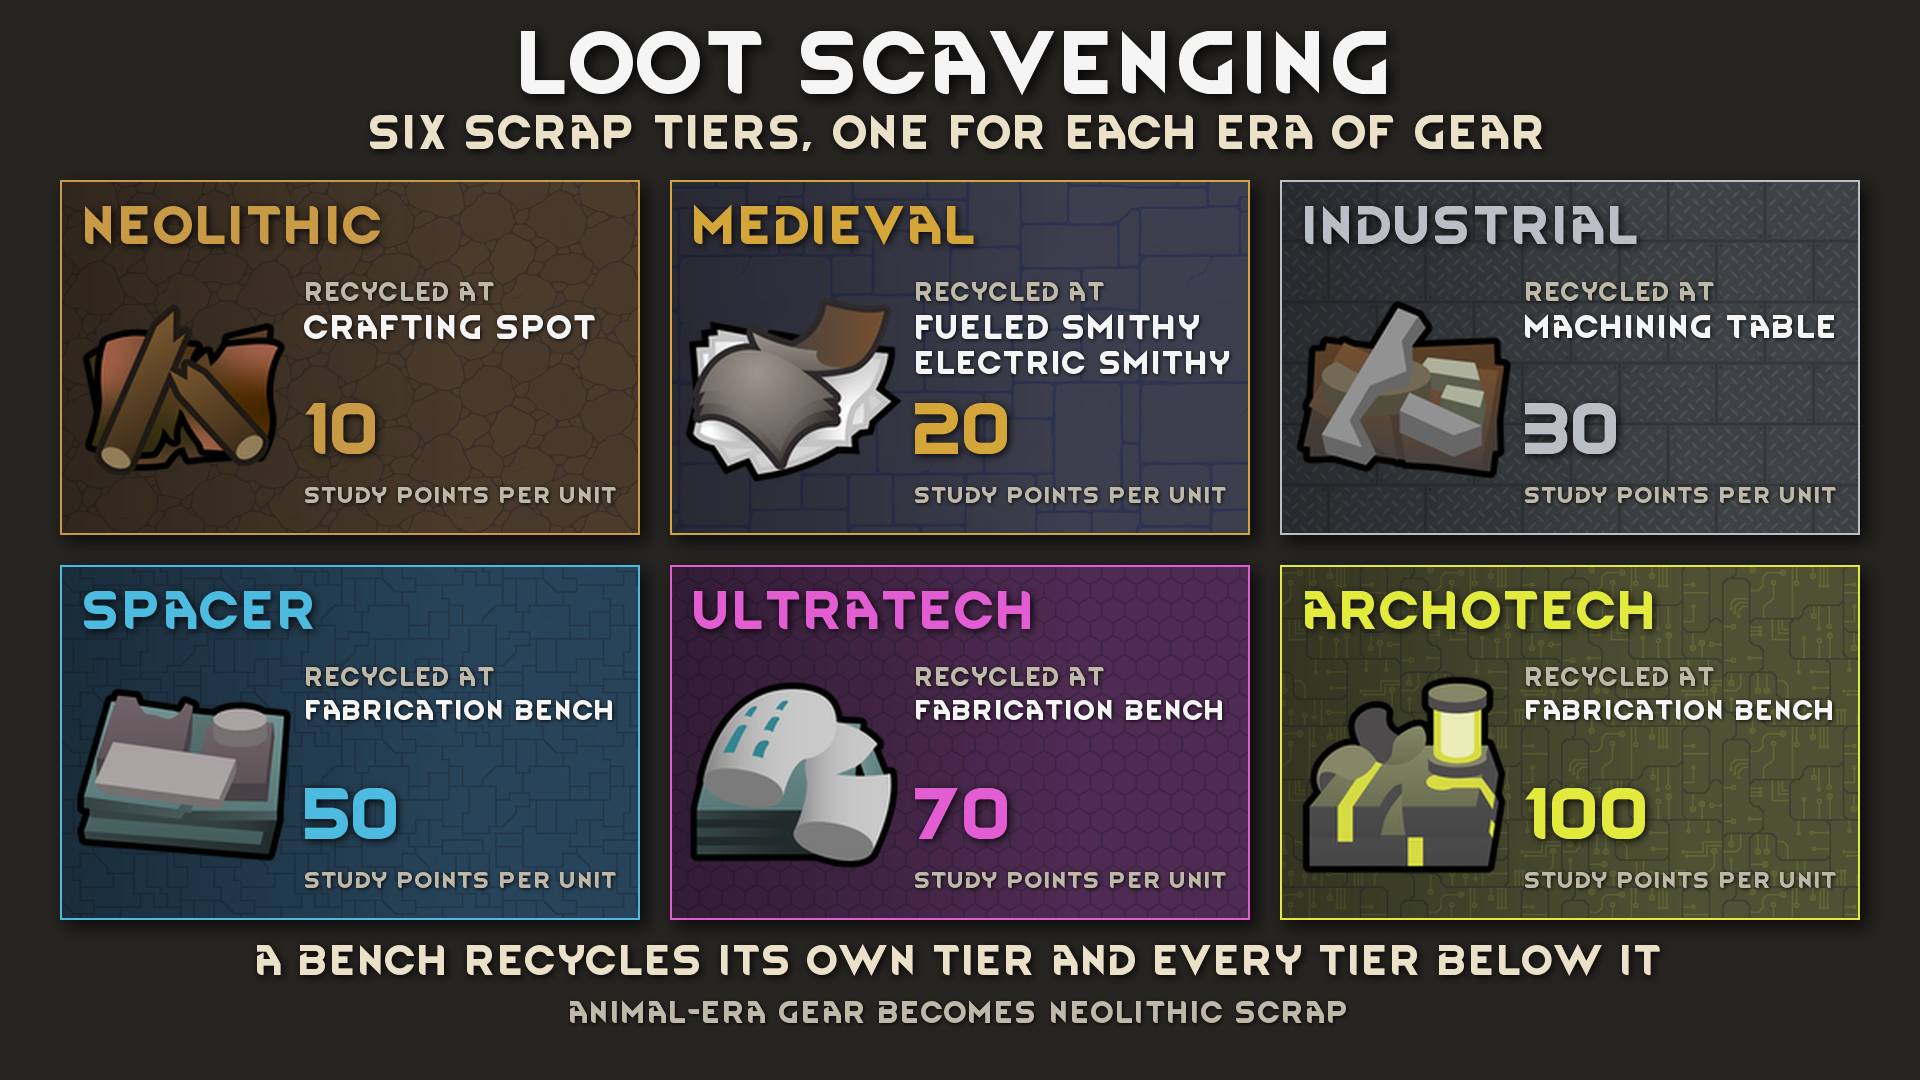
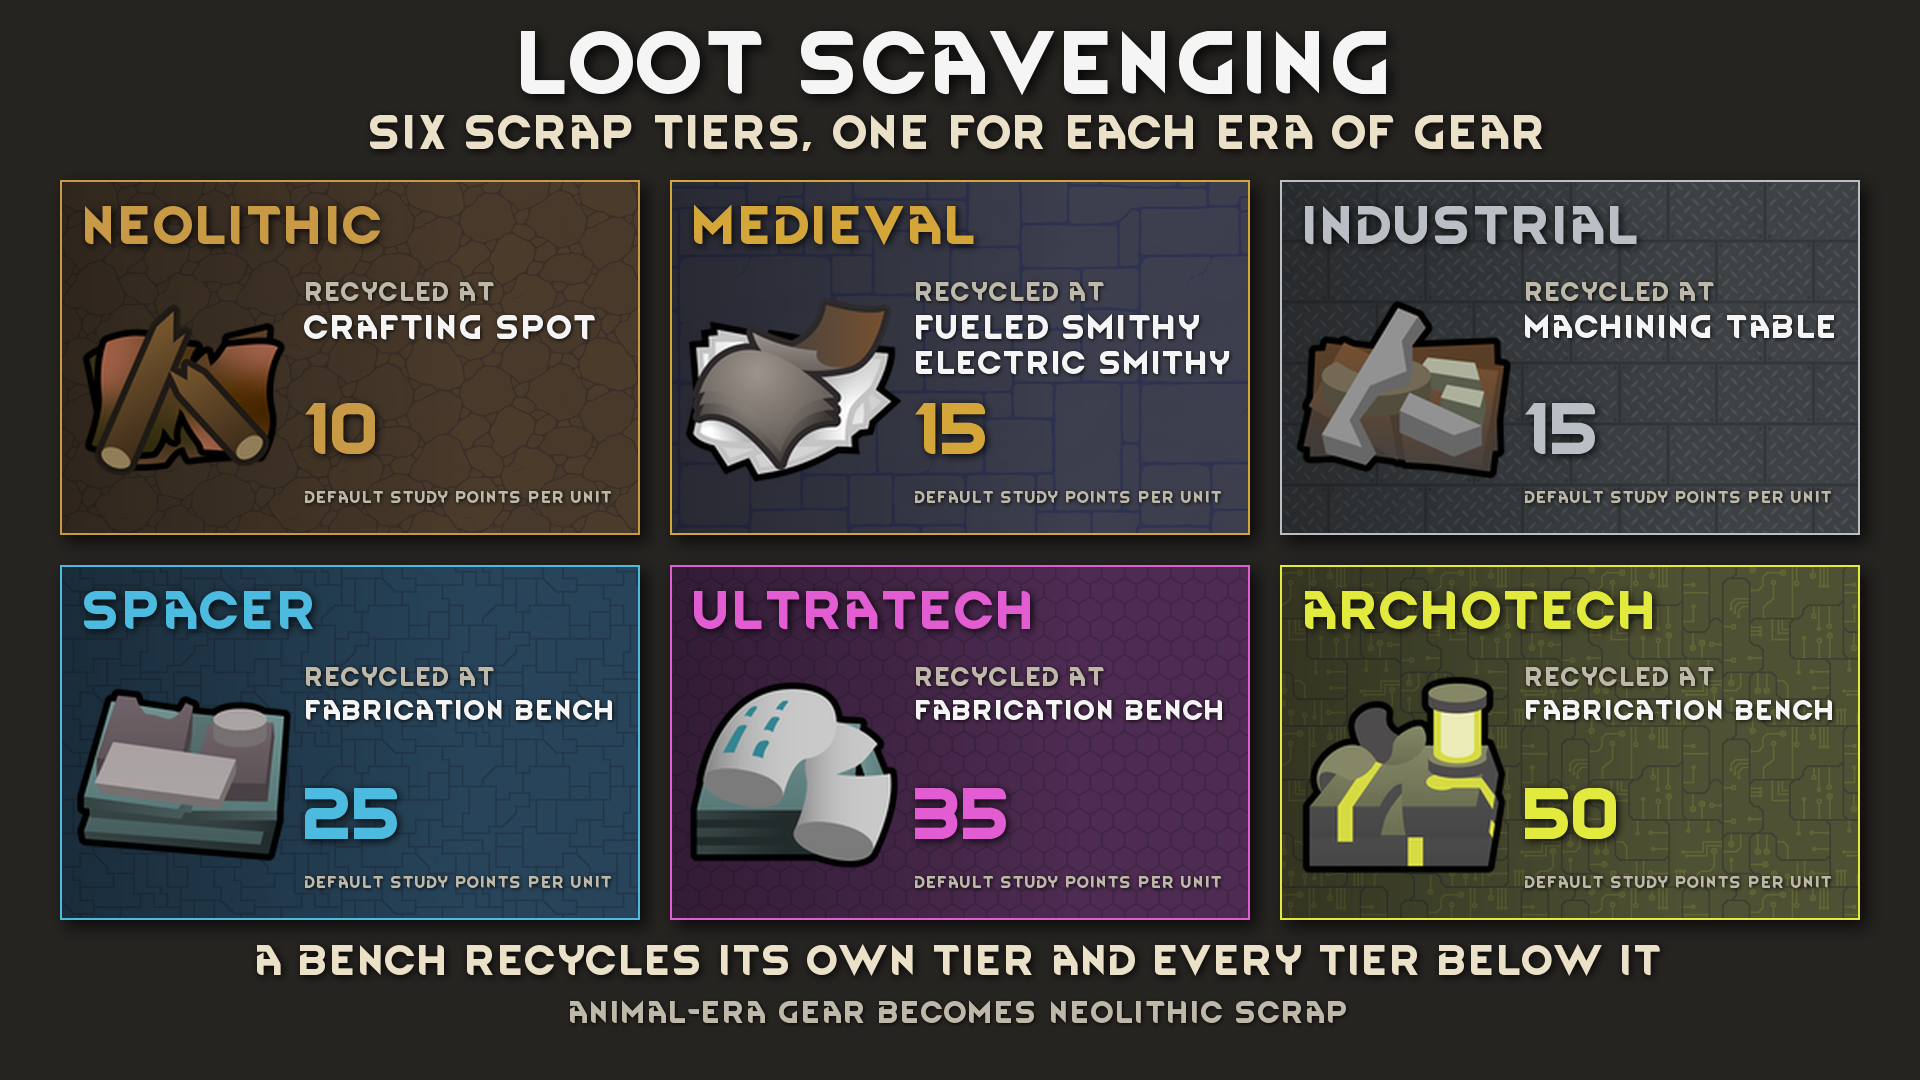
Show the 0.4.0 study points on the scrap gallery image
The render script read points from the scrap defs, which 0.4.0 moved
into the settings, so the image still showed the old values. It now
reads the defaults from SettingsDefaults.xml.

diff --git a/tools/workshop_gallery.py b/tools/workshop_gallery.py
@@ -7,7 +7,7 @@
 
 drop-modes and inspect cut stills from a lootscavenging-workshop-clips run (shots.json marks, layout.json cameras); the default is
 the run recorded for ticket 01. settings uses work/gallery/settings-frame.png, a frame from a `lootscavenging-ui --record
---show-ui` run (see TESTING.md). Numbers come from Defs/, bench labels from the game's Data, mode labels from the English Keyed
+--show-ui` run (see TESTING.md). Numbers come from Defs/ (study points from SettingsDefaults.xml), bench labels from the game's Data, mode labels from the English Keyed
 file, and the inspect text is the game's own, cropped from the stills.
 """
 from pathlib import Path
@@ -42,14 +42,19 @@ def keyed():
 
 
 def thing_defs():
-    """defName -> (label, points per unit) for the mod's scrap items."""
+    """defName -> (label, sprite folder) for the mod's scrap items."""
     out = {}
     for d in ET.parse(ROOT / "Defs" / "ThingDefs" / "Scrap.xml").getroot().iter("ThingDef"):
         name = d.findtext("defName")
-        pts = d.find("modExtensions/li/pointsPerUnit")
-        if name and name.startswith("LS_Scrap_") and pts is not None:
-            out[name] = (d.findtext("label"), float(pts.text), d.findtext("graphicData/texPath"))
+        if name and name.startswith("LS_Scrap_"):
+            out[name] = (d.findtext("label"), d.findtext("graphicData/texPath"))
     return out
+
+
+def default_study_points(tier):
+    """The default research points per unit for a tier, from studyPoints<Tier> in the settings defaults."""
+    root = ET.parse(ROOT / "Defs" / "SettingsDefaults.xml").getroot()
+    return float(next(root.iter("studyPoints" + tier)).text)
 
 
 def bench_labels():
@@ -68,7 +73,8 @@ def tiers():
     things, labels = thing_defs(), bench_labels()
     out = []
     for t in ET.parse(ROOT / "Defs" / "ScrapTiers.xml").getroot().iter("LootScavenging.ScrapTierDef"):
-        label, pts, tex = things[t.findtext("scrap")]
+        label, tex = things[t.findtext("scrap")]
+        pts = default_study_points(t.findtext("tier"))
         benches = [labels[li.text] for li in t.findall("benches/li")]
         out.append({"era": label.replace(" scrap", ""), "tier": t.findtext("tier"), "benches": benches, "points": pts, "tex": tex})
     return out
@@ -189,7 +195,7 @@ def scrap_tiers():
             shadowed(img, (cx, y + 132 + j * 36), bench, fitted(29, bench, room), anchor="la", blur=2, offset=1)
         points = f"{t['points']:g}"
         shadowed(img, (cx, y + th - 138), points, font(True, 62), anchor="la", fill=accent)
-        label = "study points per unit"
+        label = "default study points per unit"
         shadowed(img, (cx, y + th - 34), label, fitted(22, label, room), anchor="ls", fill=MUTED, blur=2, offset=1)
 
     shadowed(img, (CANVAS[0] / 2, caption_y), "A bench recycles its own tier and every tier below it", font(True, 36), fill=ps.CREAM)
